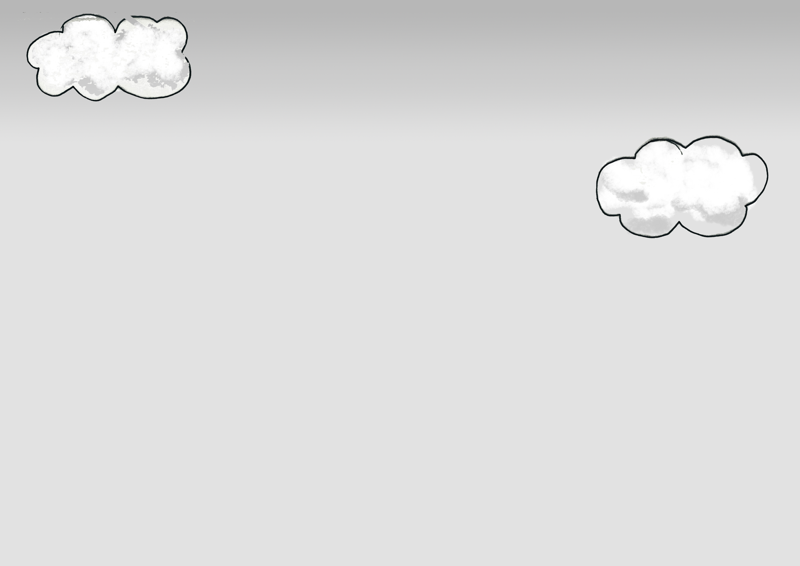
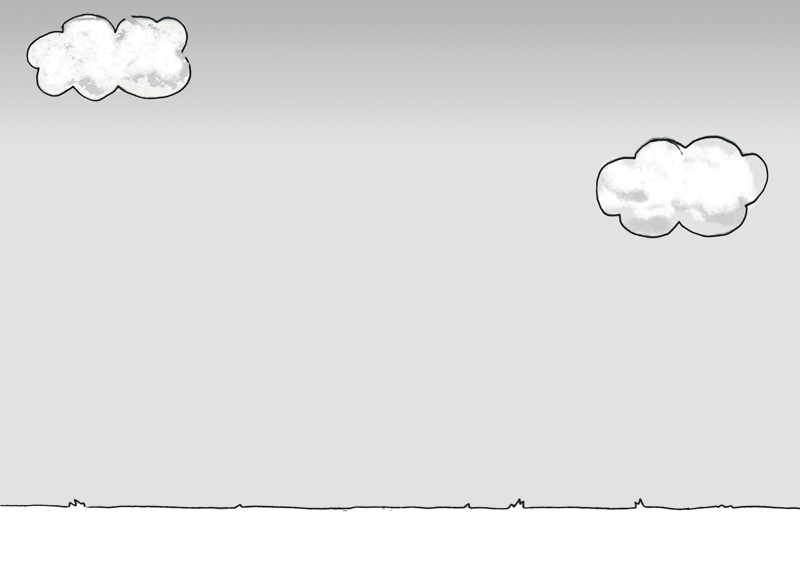
working dino animation

Changed region(s): [[0.0, 0.871, 1.0, 1.0]]

diff --git a/index.html b/index.html
@@ -8,6 +8,7 @@
         body {
             background-color: black;
             margin: 0;
+
         }
     </style>
 </head>
@@ -22,7 +23,7 @@ function preload() {
     game.load.image('sky', 'assets/sky1.png');
     game.load.image('ground', 'assets/ground.png');
     // game.load.image('banana', 'assets/banana.png');
-    // game.load.spritesheet('dino', 'assets/dino.png', 32, 48);
+    game.load.spritesheet('dino', 'assets/dino.png', 67.8, 80);
 
 }
 
@@ -49,9 +50,9 @@ function create() {
     platforms.enableBody = true;
 
     // Here we create the ground.
-    var ground = platforms.create(0, game.world.height - 64, 'ground');
+    var ground = platforms.create(0, game.world.height - 45, 'ground');
 
-    //  Scale it to fit the width of the game (the original sprite is 400x32 in size)
+    //  Scale it to fit the width of the game
     ground.scale.setTo(2, 2);
 
     //  This stops it from falling away when you jump on it
@@ -65,7 +66,7 @@ function create() {
     // ledge.body.immovable = true;
 
     // The player and its settings
-    player = game.add.sprite(32, game.world.height - 150, 'dino');
+    player = game.add.sprite(100, game.world.height - 150, 'dino');
 
     //  We need to enable physics on the player
     game.physics.arcade.enable(player);
@@ -76,8 +77,10 @@ function create() {
     player.body.collideWorldBounds = true;
 
     //  Our two animations, walking left and right.
-    player.animations.add('left', [0, 1, 2, 3], 10, true);
-    player.animations.add('right', [5, 6, 7, 8], 10, true);
+    player.animations.add('left', [0, 1], 10, true);
+    player.animations.add('right', [2, 3], 10, true);
+    player.animations.add('jump', [1, 3], 10, true);
+    // add idle animations, idle_left and idle_right
 
 //  Finally some bananas to collect
     // bananas = game.add.group();
@@ -136,8 +139,9 @@ function update() {
     {
         //  Stand still
         player.animations.stop();
-
-        player.frame = 4;
+// SET DIRECTION OF IDLE
+            // if player.frame =
+        player.frame = 2;
     }
 
     //  Allow the player to jump if they are touching the ground.
